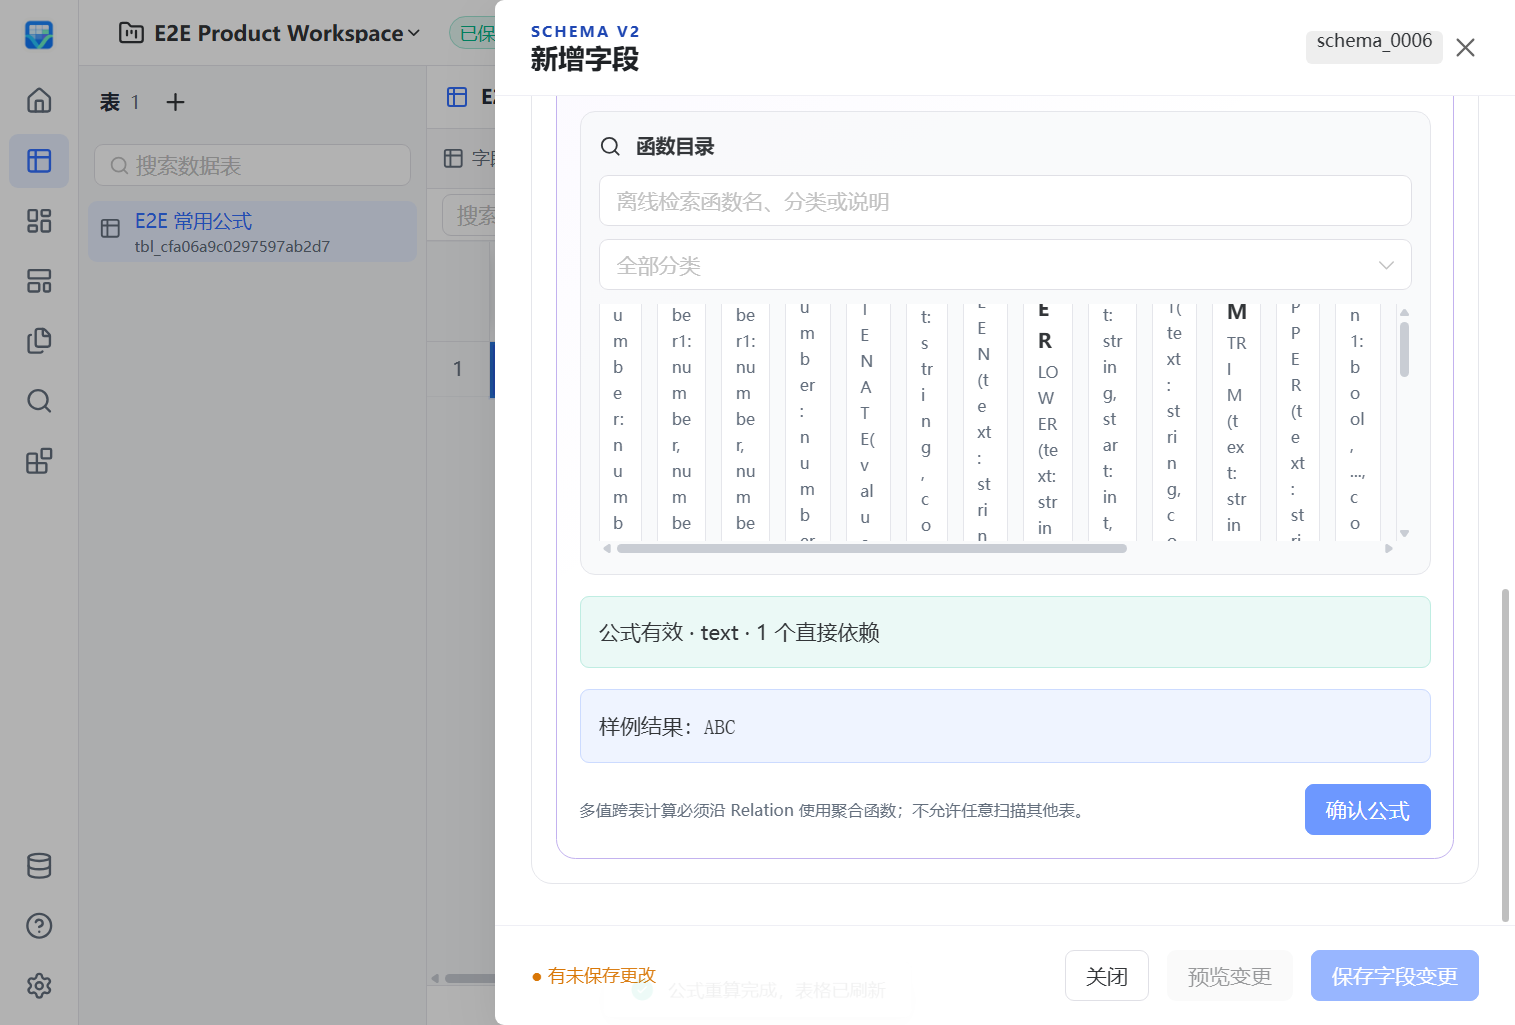
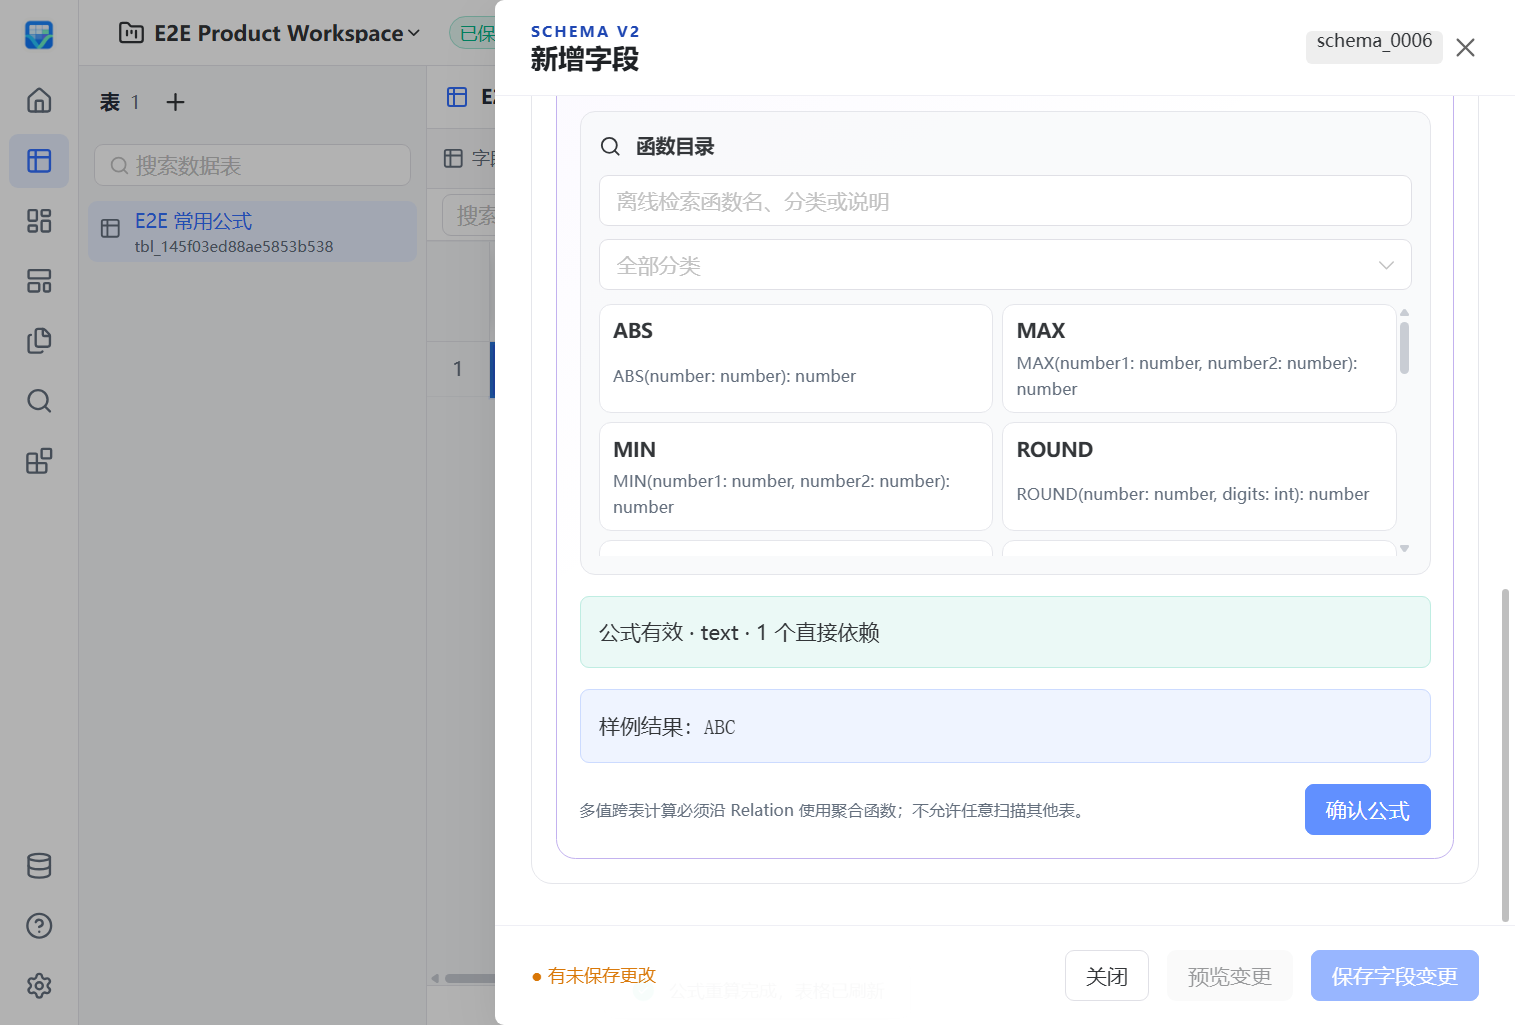
docs(formula): 更新真实目录布局验证证据

Changed region(s): [[0.4033, 0.3122, 0.8997, 0.562], [0.0931, 0.2185, 0.2172, 0.2498], [0.8066, 0.281, 0.8376, 0.3122]]

diff --git a/docs/e2e-performance.md b/docs/e2e-performance.md
@@ -12,7 +12,7 @@
 - 当前 manifest surplus：无。
 - 当前 manifest changed：1（`05-formula-lifecycle`）。
 
-本次扩展 S05 已在 2026-09-28 本地真实候选通过：产品源码 `22fc1493`，场景脚本包含同 PR 后续的下拉筛选与离线断言修正；`build/q/20260928T020330Z/product-e2e-report.json` 记录 1/1 passed、0 failed、0 skipped，package audit 与四组件 freshness 通过。使用 `uv run --frozen python scripts/build_next.py --release` 构建，`uv run --frozen python qa/product_acceptance.py --package-root dist/VibeTable.Next --evidence-root build/q --scenario 05-formula-lifecycle` 验证（exit 0）。断网下金额、分类、编码和错误提示四列完成 UI 预览、保存、重算及同 UUID 重开。该局部验证不替代 PR required，也不将下列历史 35 场结果归给新增断言。
+本次扩展 S05 已在 2026-09-28 本地真实候选通过：产品源码及场景脚本 `88afd59a`，包含下拉筛选、离线断言与函数目录布局回归；`build/q/20260928T021035Z/product-e2e-report.json` 记录 1/1 passed、0 failed、0 skipped，package audit 与四组件 freshness 通过。使用 `uv run --frozen python scripts/build_next.py --release` 构建，`uv run --frozen python qa/product_acceptance.py --package-root dist/VibeTable.Next --evidence-root build/q --scenario 05-formula-lifecycle` 验证（exit 0）。断网下金额、分类、编码和错误提示四列完成 UI 预览、保存、重算及同 UUID 重开。该局部验证不替代 PR required，也不将下列历史 35 场结果归给新增断言。
 
 同一 0bdbc1b 主干候选的两份分片报告精确覆盖当时 manifest 的 35 个场景：`resilience` lane 33 场（artifact 内部路径 `lane-evidence/resilience/20260927T165554Z/product-e2e-report.json`）与 `data-io` lane 2 场（`lane-evidence/data-io/20260927T165201Z/product-e2e-report.json`），两分片 lane 报告 commit 均为 0bdbc1b，聚合门禁核对场景选择精确覆盖当前 manifest 且两分片均成功。覆盖清单：`01-offline-first-start`、`02-all-field-schema`、`03-schema-errors`、`04-json-round-trip`、`05-formula-lifecycle`、`06-relation-fanout`、`07-attachment-history`、`08-stale-conflict`、`09-atomic-import-scale`、`10-sse-reconnect`、`11-plugin-mutation`、`12-backup-consistency`、`13-protection-policy`、`14-document-diff`、`15-workspace-snapshot-package`、`16-dashboard-lifecycle`、`17-interface-lifecycle`、`18-workspace-search`、`19-gallery-lifecycle`、`20-kanban-lane-drag`、`21-calendar-date-move`、`22-timeline-date-move`、`23-directory-replica-recovery`、`24-directory-replica-conflict`、`26-lookup-definition-read`、`27-relation-target-search`、`28-relation-delta-preview`、`29-lookup-source-pagination`、`30-query-snapshot-validation`、`31-relation-pair-inspection`、`32-shared-work-calendar`、`33-host-grid-presentation`、`34-relation-lookup-data-io`、`35-data-io-interoperability`、`36-backend-import-exit`。
 
